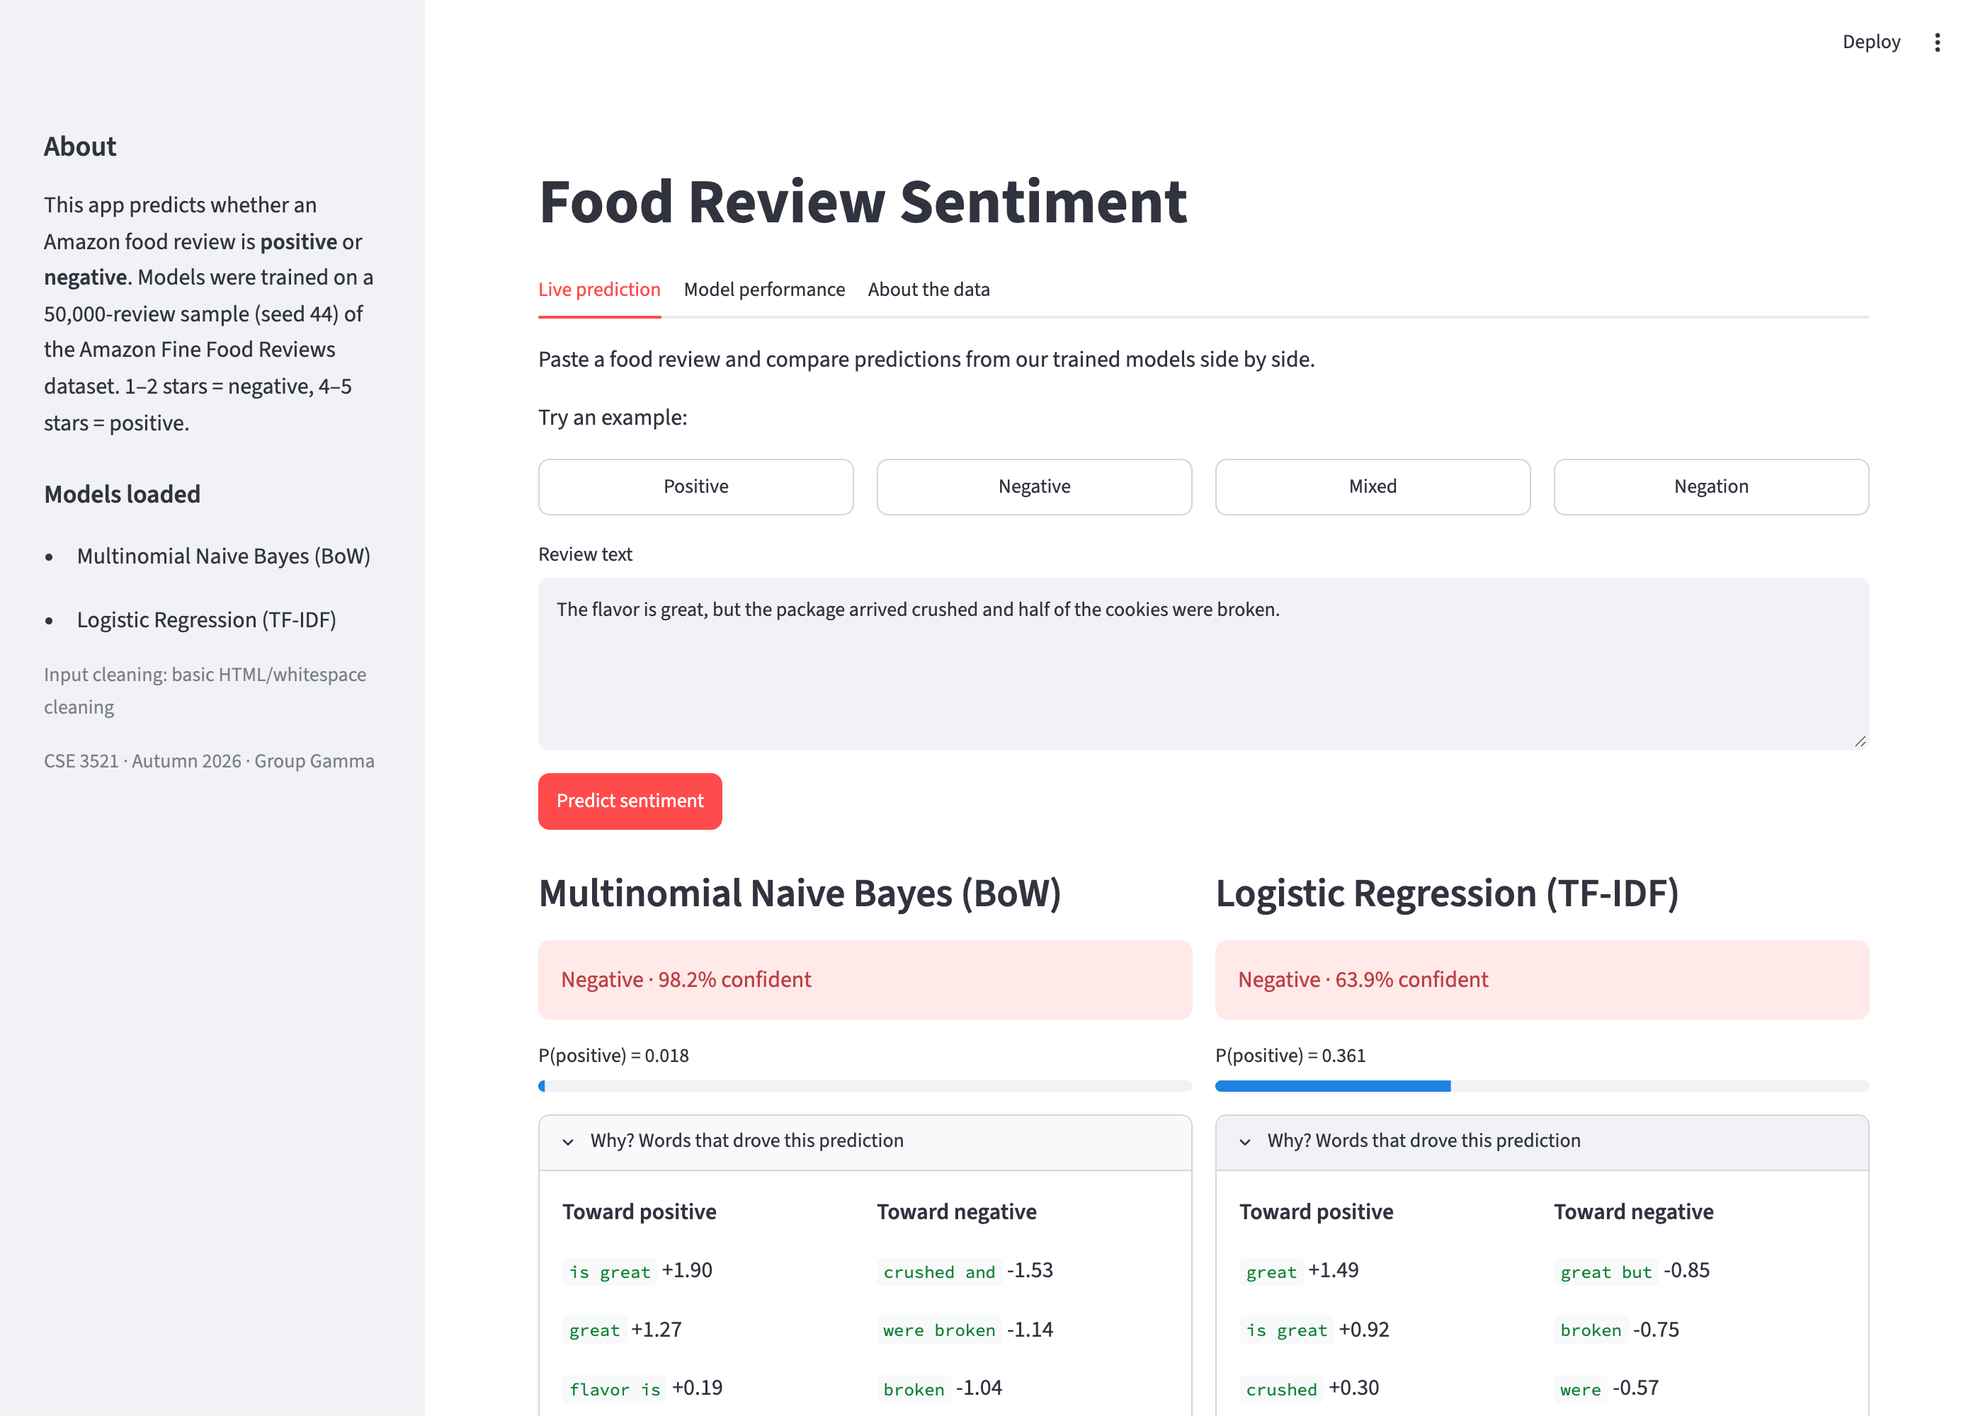
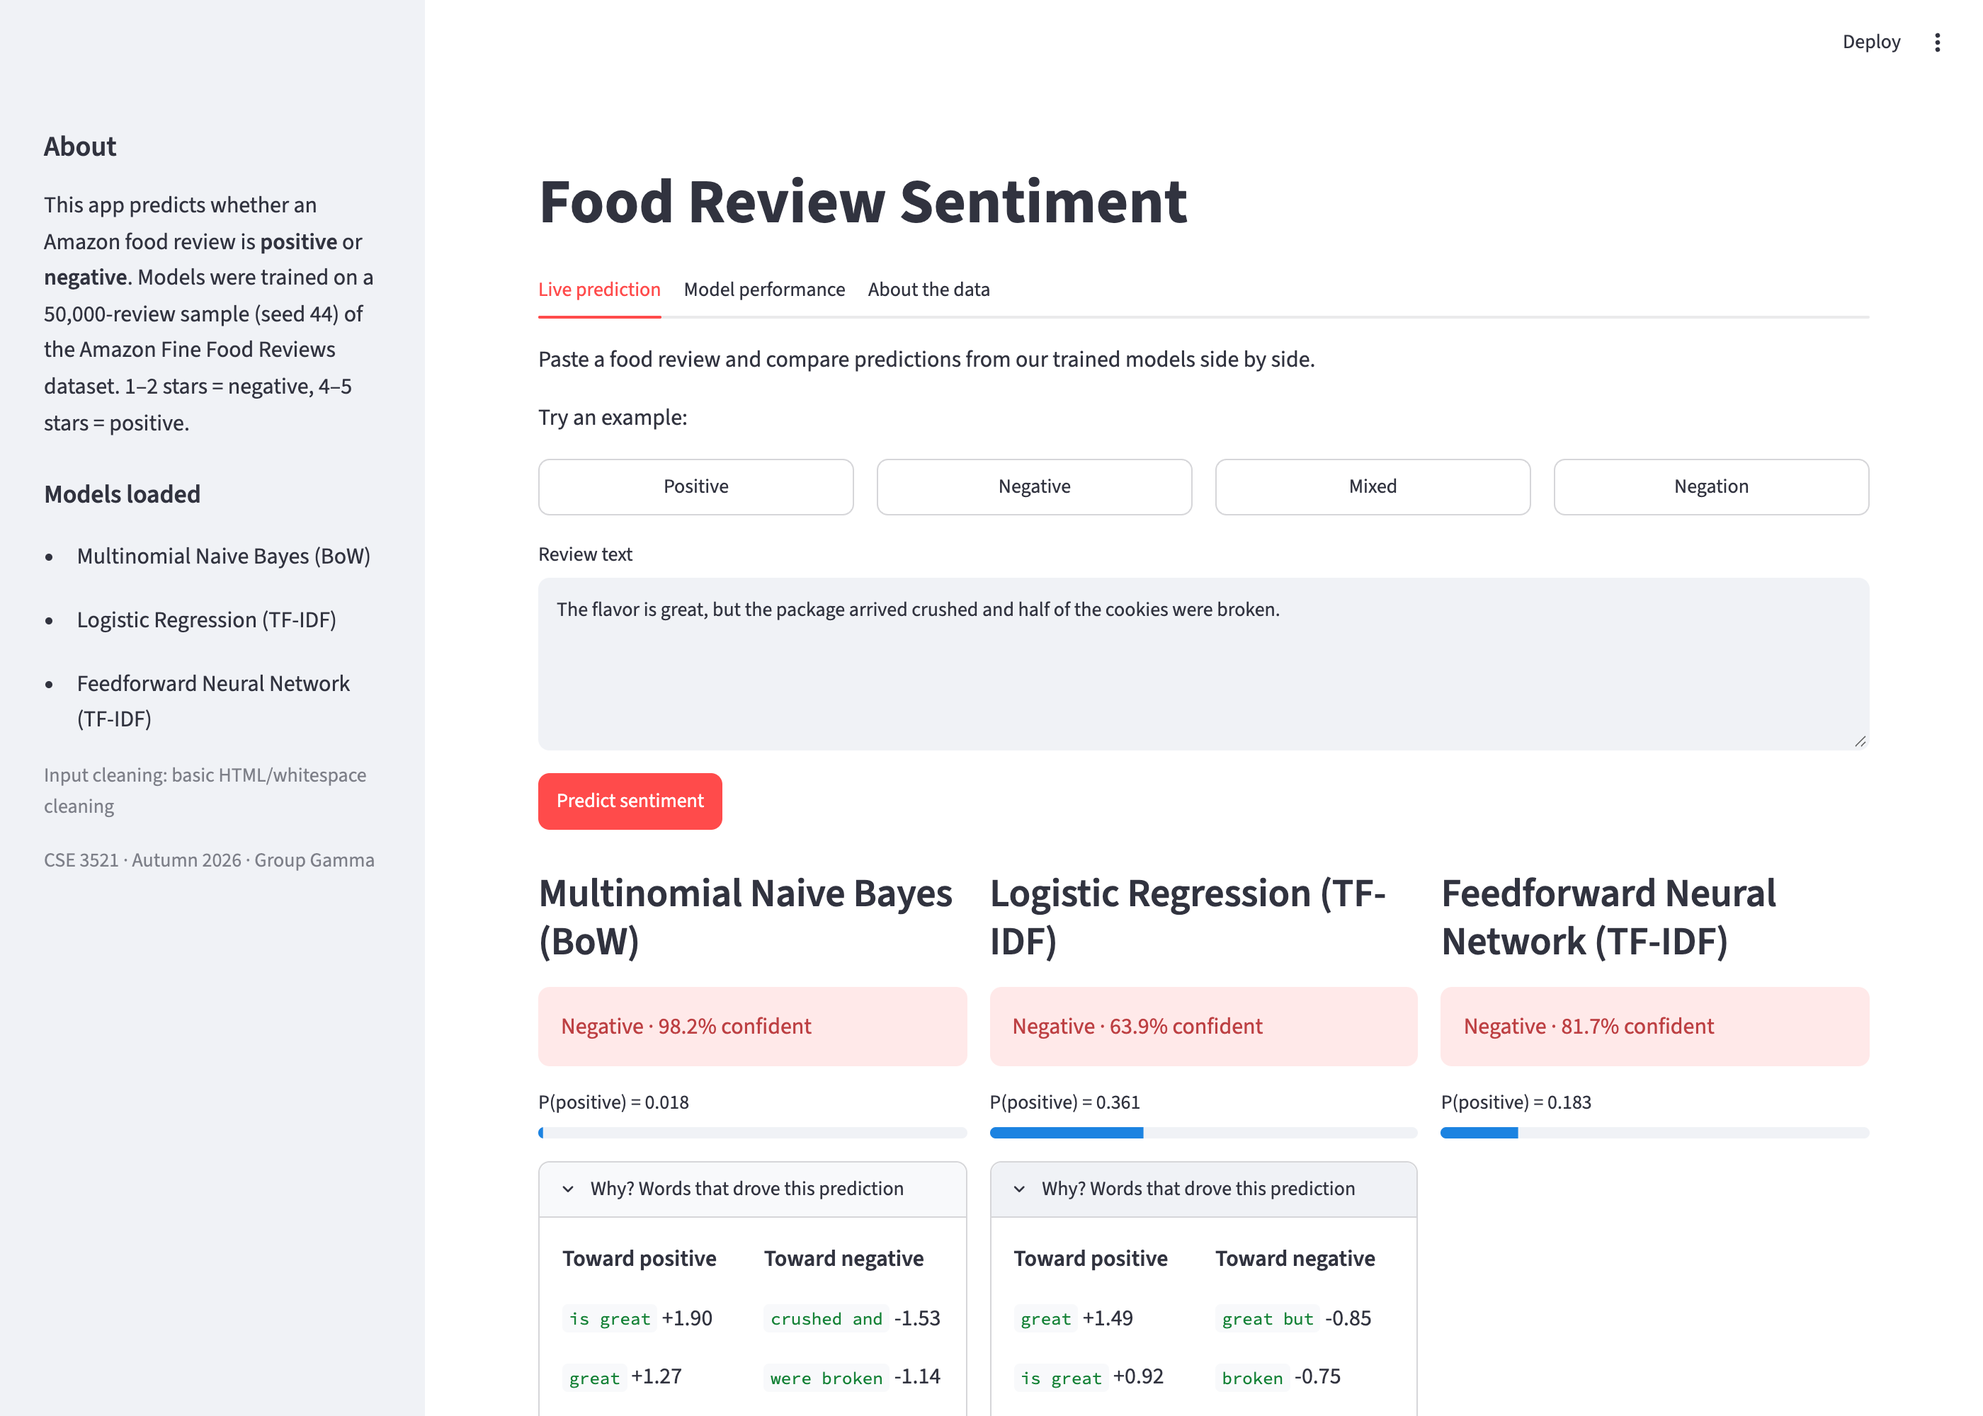
Add FFNN to the app and metrics, CPU torch for deploy, update docs

diff --git a/scripts/ffnn_model.py b/scripts/ffnn_model.py
@@ -1,0 +1,78 @@
+"""Load Andrew's PyTorch FFNN bundle (models/ffnn_complete.joblib) so it behaves like
+our scikit-learn pipelines: it takes raw text and has predict_proba / predict / classes_.
+
+The joblib file is a dict saved from the training notebook:
+    tfidf               fitted TfidfVectorizer (50,000 features, unigrams + bigrams)
+    model_state_dict    PyTorch weights of `network` (an nn.Sequential)
+    input_dim           50000
+    hidden_dims         [64, 32]
+    dropout             [0.3, 0.2]
+    classification_threshold  0.5
+    class_mapping       {0: "negative", 1: "positive"}
+
+Architecture rebuilt here (must match the training code):
+    Linear(50000 -> 64) -> ReLU -> Dropout(0.3)
+    Linear(64 -> 32)    -> ReLU -> Dropout(0.2)
+    Linear(32 -> 1)     -> sigmoid gives P(positive)
+"""
+from __future__ import annotations
+
+from pathlib import Path
+
+import joblib
+import numpy as np
+
+
+def load_model(path: Path):
+    """Load any model file in models/. Plain sklearn pipelines are returned as is;
+    an FFNN bundle (a dict with `model_state_dict`) is wrapped in FFNNClassifier."""
+    obj = joblib.load(path)
+    if isinstance(obj, dict) and "model_state_dict" in obj:
+        return FFNNClassifier(obj)
+    return obj
+
+
+class FFNNClassifier:
+    def __init__(self, bundle: dict):
+        import torch
+        from torch import nn
+
+        self._torch = torch
+        self.vectorizer = bundle["tfidf"]
+        self.threshold = float(bundle.get("classification_threshold", 0.5))
+        mapping = bundle.get("class_mapping", {0: "negative", 1: "positive"})
+        self.classes_ = np.array([mapping[0], mapping[1]])
+
+        layers, in_dim = [], bundle["input_dim"]
+        for units, p in zip(bundle["hidden_dims"], bundle["dropout"]):
+            layers += [nn.Linear(in_dim, units), nn.ReLU(), nn.Dropout(p)]
+            in_dim = units
+        layers.append(nn.Linear(in_dim, 1))
+
+        class Net(nn.Module):
+            def __init__(self):
+                super().__init__()
+                self.network = nn.Sequential(*layers)
+
+            def forward(self, x):
+                return self.network(x)
+
+        self.net = Net()
+        self.net.load_state_dict(bundle["model_state_dict"])
+        self.net.eval()  # turns dropout off for prediction
+
+    def predict_proba(self, texts, batch_size: int = 2048):
+        """Returns an (n, 2) array: columns follow classes_ (negative, positive)."""
+        texts = list(texts)
+        p_pos = []
+        for i in range(0, len(texts), batch_size):
+            x = self.vectorizer.transform(texts[i:i + batch_size]).toarray()
+            with self._torch.no_grad():
+                logits = self.net(self._torch.tensor(x, dtype=self._torch.float32))
+            p_pos.append(self._torch.sigmoid(logits).squeeze(1).numpy())
+        p_pos = np.concatenate(p_pos) if p_pos else np.zeros(0)
+        return np.column_stack([1 - p_pos, p_pos])
+
+    def predict(self, texts):
+        p_pos = self.predict_proba(texts)[:, 1]
+        return np.where(p_pos >= self.threshold, self.classes_[1], self.classes_[0])

diff --git a/app.py b/app.py
@@ -14,22 +14,25 @@ import json
 import re
 from collections import Counter
 
-import joblib
 import numpy as np
 import pandas as pd
 import streamlit as st
+
+from scripts.ffnn_model import load_model
 
 ROOT = Path(__file__).resolve().parent
 MODELS_DIR = ROOT / "models"
 FIGURES_DIR = ROOT / "report" / "figures"
 METRICS_PATH = MODELS_DIR / "model_metrics.json"
 
-# Every model the app can show. To add a model, save its sklearn Pipeline
-# (vectorizer + classifier, with predict_proba) into models/ with joblib, add one
-# line here, then rerun `python scripts/export_metrics.py` to update the metrics tab.
+# Every model the app can show. To add a model, save it into models/ with joblib
+# (an sklearn Pipeline with predict_proba, or a PyTorch FFNN bundle that
+# scripts/ffnn_model.py understands), add one line here, then rerun
+# `python scripts/export_metrics.py` to update the metrics tab.
 MODELS = {
     "Multinomial Naive Bayes (BoW)": "naive_bayes_bow.joblib",
     "Logistic Regression (TF-IDF)": "logreg_tfidf.joblib",
+    "Feedforward Neural Network (TF-IDF)": "ffnn_complete.joblib",
 }
 
 EXAMPLES = {
@@ -76,7 +79,7 @@ def load_models():
     for name, filename in MODELS.items():
         path = MODELS_DIR / filename
         if path.is_file():
-            loaded[name] = joblib.load(path)
+            loaded[name] = load_model(path)
         else:
             missing.append(filename)
     return loaded, missing
@@ -96,6 +99,8 @@ def word_contributions(model, text: str, top_n: int = 5):
     Logistic Regression:  push = tfidf(word) x weight(word)
     Returns None for models that are neither (e.g. a neural network).
     """
+    if not hasattr(model, "steps"):
+        return None
     vectorizer, classifier = model.steps[0][1], model.steps[-1][1]
     classes = list(classifier.classes_)
     if hasattr(classifier, "feature_log_prob_"):
@@ -275,6 +280,7 @@ compare models by **macro F1**.
 **Models.**
 - *Multinomial Naive Bayes* on Bag-of-Words counts (unigrams + bigrams, 50k vocabulary).
 - *Logistic Regression* on TF-IDF weights (unigrams + bigrams, 50k vocabulary, balanced class weights).
+- *Feedforward Neural Network* (PyTorch) on TF-IDF weights: 50k inputs → 64 → 32 → 1, ReLU, dropout 0.3 / 0.2.
 
 **How a prediction works.** Your review is cleaned the same way as the
 training data, turned into word counts / TF-IDF weights by each model's own

diff --git a/scripts/export_metrics.py b/scripts/export_metrics.py
@@ -22,10 +22,11 @@ import json
 import re
 from pathlib import Path
 
-import joblib
 import pandas as pd
 from sklearn.metrics import accuracy_score, confusion_matrix, precision_recall_fscore_support
 from sklearn.model_selection import train_test_split
+
+from ffnn_model import load_model
 
 ROOT = Path(__file__).resolve().parents[1]
 DATA_DIR = ROOT / "data"
@@ -37,6 +38,7 @@ SEED = 44
 MODELS = {
     "Multinomial Naive Bayes (BoW)": "naive_bayes_bow.joblib",
     "Logistic Regression (TF-IDF)": "logreg_tfidf.joblib",
+    "Feedforward Neural Network (TF-IDF)": "ffnn_complete.joblib",
 }
 
 
@@ -93,7 +95,7 @@ def main():
         if not path.is_file():
             print(f"skip {name}: {path} not found")
             continue
-        model = joblib.load(path)
+        model = load_model(path)
         results.append({"name": name, **row(y_test, model.predict(X_test))})
         print(f"evaluated {name}")
 

diff --git a/report/CSE3521_M3_Report_Template.md b/report/CSE3521_M3_Report_Template.md
@@ -67,14 +67,14 @@ Our planned deep model is a **Feedforward Neural Network (FFNN)** for binary sen
 
 ### Application overview
 
-Our Streamlit app is a working prototype of the sentiment system. A user pastes or types any food review and immediately sees a positive/negative prediction from each of our trained models, side by side, with a confidence score and the words that drove each decision. It is aimed at a non-technical reader, such as a seller or a product team checking how customers feel, so the app explains its results in plain language. The app currently serves two trained models, **Multinomial Naive Bayes (Bag of Words)** and **Logistic Regression (TF-IDF)**. Both are saved as scikit-learn pipelines (vectorizer + classifier) in `models/`, so the app reuses exactly the vocabulary and weights learned during training. Adding a model, such as the FFNN, takes one line in the `MODELS` dictionary in `app.py`.
+Our Streamlit app is a working prototype of the sentiment system. A user pastes or types any food review and immediately sees a positive/negative prediction from each of our trained models, side by side, with a confidence score and the words that drove each decision. It is aimed at a non-technical reader, such as a seller or a product team checking how customers feel, so the app explains its results in plain language. The app serves all three trained models: **Multinomial Naive Bayes (Bag of Words)**, **Logistic Regression (TF-IDF)**, and the **Feedforward Neural Network (TF-IDF, PyTorch)**. The classical models are saved as scikit-learn pipelines (vectorizer + classifier) in `models/`. The FFNN is saved as a bundle of its fitted TF-IDF vectorizer and network weights, which `scripts/ffnn_model.py` rebuilds into the same interface. Either way, the app reuses exactly the vocabulary and weights learned during training, and adding a model takes one line in the `MODELS` dictionary in `app.py`.
 
 **Table 2. Pages (tabs) of the Streamlit app**
 
 | Tab / page | Purpose | User interaction and output |
 |---|---|---|
-| Live prediction | Live sentiment prediction from every loaded model | The user types or pastes a review, or clicks one of four example buttons (Positive, Negative, Mixed, Negation). Each model shows its label, its confidence, and a P(positive) bar. A "Why?" panel lists the five words or phrases pushing most toward positive and toward negative (Naive Bayes: count × log-probability ratio; Logistic Regression: TF-IDF weight × coefficient). A warning appears when the models disagree. A final panel shows the cleaned text the models actually received. |
-| Model performance | Results on the shared held-out test set | A table of accuracy, macro precision, macro recall, macro F1 and training time for the majority-class baseline and each model, with the best macro F1 highlighted, plus a confusion matrix for each model. Values are read from `models/model_metrics.json`, which `scripts/export_metrics.py` regenerates after a model is retrained. |
+| Live prediction | Live sentiment prediction from every loaded model | The user types or pastes a review, or clicks one of four example buttons (Positive, Negative, Mixed, Negation). Each model shows its label, its confidence, and a P(positive) bar. For the two linear models, a "Why?" panel lists the five words or phrases pushing most toward positive and toward negative (Naive Bayes: count × log-probability ratio; Logistic Regression: TF-IDF weight × coefficient). The FFNN has no per-word weights, so it shows only its prediction. A warning appears when the models disagree. A final panel shows the cleaned text the models actually received. |
+| Model performance | Results on the shared held-out test set | A table of accuracy, macro precision, macro recall, macro F1 and training time for the majority-class baseline and all three models, with the best macro F1 highlighted, plus a confusion matrix for each model. Values are read from `models/model_metrics.json`, which `scripts/export_metrics.py` regenerates after a model is retrained. |
 | About the data | Context for non-technical users | Describes the dataset, the label scheme (1–2 stars negative, 4–5 positive, 3 excluded), why macro F1 is used under class imbalance, how each model turns text into numbers, and known weak spots. Shows the star-rating distribution chart. |
 
 The sidebar lists which model files loaded successfully and which input cleaning is active. New reviews are cleaned with the same functions as the training data: the app imports them from `scripts/clean_reviews_script_final.py` (HTML/whitespace cleaning, quote normalization, conservative spelling correction, contraction standardization, negation commas). If that script or `pyspellchecker` is unavailable, the app falls back to basic HTML/whitespace cleaning. A review can also be passed in the URL (`?review=...`), which is useful for sharing a demo link.
@@ -85,13 +85,13 @@ The sidebar lists which model files loaded successfully and which input cleaning
 
 ![Figure 2. Streamlit main interface](figures/m3_app_main.png){width=85%}
 
-After the user clicked the **Mixed** example ("The flavor is great, but the package arrived crushed…"), both models predict negative, but with very different confidence: Naive Bayes is 98.2% sure, while Logistic Regression is only 63.9% sure. The "Why?" panels show the reason. Both models credit "great" and "is great" toward positive, but "crushed", "broken" and the bigram "great but" pull toward negative. This mixed-review pattern is one of the error types we identified in M2.
+After the user clicked the **Mixed** example ("The flavor is great, but the package arrived crushed…"), all three models predict negative, but with very different confidence: Naive Bayes is 98.2% sure, the FFNN 81.7%, and Logistic Regression only 63.9%. The "Why?" panels show the reason for the linear models. Both credit "great" and "is great" toward positive, but "crushed", "broken" and the bigram "great but" pull toward negative. This mixed-review pattern is one of the error types we identified in M2.
 
 **Figure 3. Streamlit application — Model performance tab.**
 
 ![Figure 3. Streamlit prediction results](figures/m3_app_results.png){width=85%}
 
-The performance tab shows the unified comparison on the 8,570-review test set. Logistic Regression (TF-IDF) has the best macro F1 (0.8718) and also misses fewer negative reviews than Naive Bayes (244 vs. 276 false positives).
+The performance tab shows the unified comparison on the 8,570-review test set. The FFNN has the best macro F1 (0.8766), slightly ahead of Logistic Regression (0.8718) and Naive Bayes (0.8535), and it also misses the fewest negative reviews (232 false positives, vs. 244 for Logistic Regression and 276 for Naive Bayes).
 
 ### Running the application
 
@@ -142,7 +142,7 @@ pip install -r requirements.txt
 
 ## 5. Individual Progress Log
 
-**Baowen Liu — App Engineer.** Since M2, I extended the Streamlit app from a single Naive Bayes prediction page into a three-tab prototype. The Live prediction tab now shows Naive Bayes and Logistic Regression side by side, explains each prediction with the words that pushed it toward positive or negative (also for Logistic Regression, using TF-IDF weight × coefficient), and warns when the models disagree. The Model performance tab shows the comparison table and the confusion matrices, and the About tab describes the dataset. I connected the app to the team's cleaning script so new reviews are preprocessed the same way as the training data. I also wrote `scripts/export_metrics.py`, which scores every saved model on the shared test set and writes the metrics file the app reads. I deployed the app to Streamlit Community Cloud (https://cse3521-sentiment.streamlit.app), wrote the app documentation in Section 3, and took the screenshots. Before M4, I will add the FFNN to the app once its model file is saved, rerun the metrics script on the retrained models, and prepare the live demo segment of the presentation.
+**Baowen Liu — App Engineer.** Since M2, I extended the Streamlit app from a single Naive Bayes prediction page into a three-tab prototype. The Live prediction tab now shows Naive Bayes, Logistic Regression and the FFNN side by side, explains each prediction with the words that pushed it toward positive or negative (also for Logistic Regression, using TF-IDF weight × coefficient), and warns when the models disagree. The Model performance tab shows the comparison table and the confusion matrices, and the About tab describes the dataset. I connected the app to the team's cleaning script so new reviews are preprocessed the same way as the training data. I also wrote `scripts/export_metrics.py`, which scores every saved model on the shared test set and writes the metrics file the app reads, and `scripts/ffnn_model.py`, which loads Andrew's PyTorch FFNN so the app and the metrics script can use it like the scikit-learn models. I deployed the app to Streamlit Community Cloud (https://cse3521-sentiment.streamlit.app), wrote the app documentation in Section 3, and took the screenshots. Before M4, I will rerun the metrics script on the retrained models and prepare the live demo segment of the presentation.
 
 **Henry Benner — ML Engineer (classical).** [Describe contributions since M2, including Logistic Regression, classical model training, evaluation, and comparison. Identify remaining tasks before M4.]
 

diff --git a/README.md b/README.md
@@ -80,7 +80,7 @@ The app opens at http://localhost:8501 and loads the trained pipelines in `model
 
 | Tab | What it shows |
 |---|---|
-| Live prediction | Paste a review and see every model's prediction side by side, with confidence and the words that drove each prediction |
+| Live prediction | Paste a review and see the predictions of Naive Bayes, Logistic Regression and the FFNN side by side, with confidence (and, for the linear models, the words that drove each prediction) |
 | Model performance | Test-set accuracy, macro precision, recall, F1, training time and a confusion matrix per model (read from `models/model_metrics.json`) |
 | About the data | Dataset, label scheme, and how the models work |
 
@@ -90,7 +90,7 @@ After retraining a model, refresh the metrics the app shows with:
 python scripts/export_metrics.py
 ```
 
-To add a new model to the app, save it as a scikit-learn `Pipeline` (vectorizer + classifier with `predict_proba`) in `models/`, then add one line to `MODELS` in `app.py` and in `scripts/export_metrics.py`.
+To add a new model to the app, save it in `models/` as a scikit-learn `Pipeline` (vectorizer + classifier with `predict_proba`) or as a PyTorch FFNN bundle that `scripts/ffnn_model.py` can load. Then add one line to `MODELS` in `app.py` and in `scripts/export_metrics.py`.
 
 ### Reproduce our results
 
